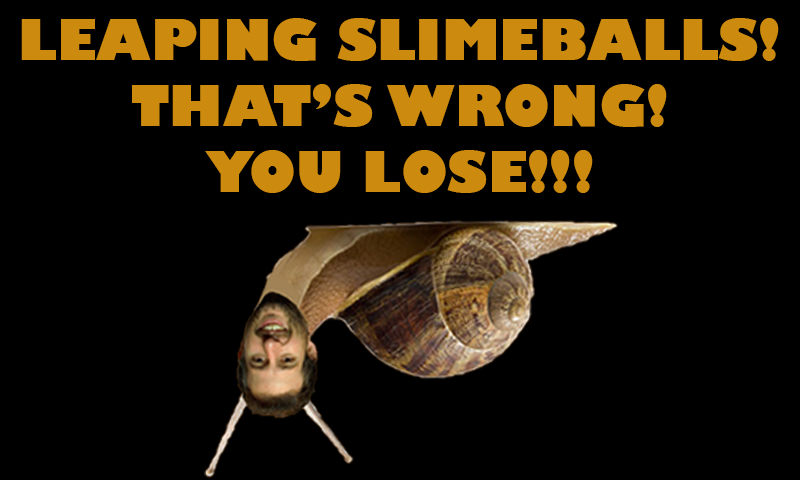
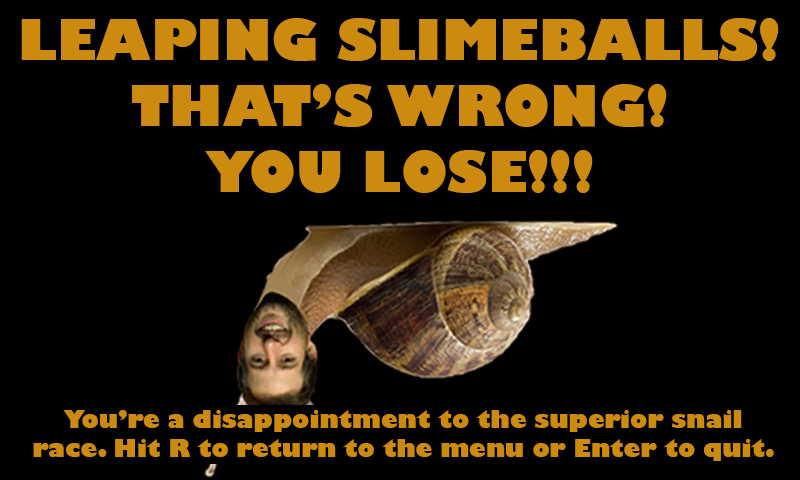
...sweet slimy snails I think we're actually done with this nonsense

Changed region(s): [[0.0312, 0.8438, 0.9688, 0.9688]]

diff --git a/game/Schwartz's Sneaky Snail Mail Scandal/Schwartz's Sneaky Snail Mail Scandal/Game1.cs b/game/Schwartz's Sneaky Snail Mail Scandal/Schwartz's Sneaky Snail Mail Scandal/Game1.cs
@@ -83,15 +83,17 @@ namespace Schwartz_s_Sneaky_Snail_Mail_Scandal
         int mapWidth = 0;
         int mapHeight = 0;
 
-		// Keep track of the room the player is currently in.
-		//Rooms currentRoom = Rooms.Hallway;
-		string currentRoomDirectory = null;
+		//// Keep track of the room the player is currently in.
+		////Rooms currentRoom = Rooms.Hallway;
+		
+		// Variable to store directory location of game map
+		string mapDirectory = null;
 
-		// Regions that, when entered, trigger the loading of the next room.
-		RoomMovement hallwayExit = null;
-		RoomMovement officeExit = null;
+		//// Regions that, when entered, trigger the loading of the next room
+		//RoomMovement hallwayExit = null;
+		//RoomMovement officeExit = null;
 
-		// Variables to keep track of game assets.
+		// Variables to keep track of game assets
 		Texture2D spriteSheet;
 		Texture2D tileSheet;
 		Texture2D startScreen;
@@ -104,25 +106,31 @@ namespace Schwartz_s_Sneaky_Snail_Mail_Scandal
 		Texture2D erikaDialogue;
 		Texture2D erinDialogue;
 		Texture2D luisDialogue;
+		Texture2D erikaSnailshot;
+		Texture2D erinSnailshot;
+		Texture2D luisSnailshot;
 
-		// List to hold Rectangles surrounding all professor tiles.
+		// List to hold Rectangles surrounding all professor tiles
 		List<Rectangle> professorTileRectangles = new List<Rectangle>();
 
-		// Variables to track the current state of the game and player.
+		// Variables to track the current state of the game and player
 		GameStates gameState = GameStates.StartScreen;
 		PlayerActivity playerActivity = PlayerActivity.Idle;
 
 		// Variable for spritefont
-		SpriteFont Arial;
+		SpriteFont arial20;
 
-		// Enum variable to track professor tile player is interacting with.
+		// Enum variable to track professor tile player is interacting with
 		Professors activeProfessor;
 
 		// Bool for checking professor interaction
 		bool professorInteraction = false;
 
-		// Variable to keep track of previous keyboard state.
+		// Variable to keep track of previous keyboard state
 		KeyboardState prevKBState;
+
+		// Variable to keep track of player starting position
+		Vector2 playerLoc = new Vector2(1225, 50);
 
 		// Variables to control the regions of the map that get drawn.
 		//int drawFrom;
@@ -155,10 +163,10 @@ namespace Schwartz_s_Sneaky_Snail_Mail_Scandal
             windowWidth = graphics.GraphicsDevice.Viewport.Width;
             windowHeight = graphics.GraphicsDevice.Viewport.Height;
 
-			hallwayExit = new RoomMovement(
-				0, Map.tileHeight, Map.tileWidth, Map.tileHeight * 20);
-			officeExit = new RoomMovement(
-				windowWidth - Map.tileWidth, Map.tileHeight * 14, Map.tileWidth, Map.tileHeight * 7);
+			//hallwayExit = new RoomMovement(
+			//	0, Map.tileHeight, Map.tileWidth, Map.tileHeight * 20);
+			//officeExit = new RoomMovement(
+			//	windowWidth - Map.tileWidth, Map.tileHeight * 14, Map.tileWidth, Map.tileHeight * 7);
 
 			// Making cursor visible in the window.
 			this.IsMouseVisible = true;
@@ -186,7 +194,7 @@ namespace Schwartz_s_Sneaky_Snail_Mail_Scandal
 						return TileStates.Professor;
 					}
                 default:
-                    throw new System.ArgumentException(letter + " was not a wall or floor. Please check file input.");
+                    throw new ArgumentException(letter + " was not a wall or floor. Please check file input.");
             }
         }
 
@@ -308,7 +316,7 @@ namespace Schwartz_s_Sneaky_Snail_Mail_Scandal
         protected override void LoadContent()
         {
 			// Initialising map using the file generated using the Map Editor
-			currentRoomDirectory = "../../../../Content/gameMap";
+			mapDirectory = "../../../../Content/gameMap";
 
             // Create a new SpriteBatch, which can be used to draw textures.
             spriteBatch = new SpriteBatch(GraphicsDevice);
@@ -333,14 +341,18 @@ namespace Schwartz_s_Sneaky_Snail_Mail_Scandal
 			erinDialogue = Content.Load<Texture2D>("dialogueBoxes/ErinDialogue");
 			luisDialogue = Content.Load<Texture2D>("dialogueBoxes/LuisDialogue");
 
+			// "Snailshots" lol
+			erikaSnailshot = Content.Load<Texture2D>("snailShots/erikaSnailshot");
+			erinSnailshot = Content.Load<Texture2D>("snailShots/erinSnailshot");
+			luisSnailshot = Content.Load<Texture2D>("snailShots/luisSnailshot");
+
 			// Loads font
-			Arial = Content.Load<SpriteFont>("spriteFont");
+			arial20 = Content.Load<SpriteFont>("Arial20");
 	
 
-			PopulateMap(currentRoomDirectory, tileSheet);
+			PopulateMap(mapDirectory, tileSheet);
 
 			// TODO: use this.Content to load your game content here
-			Vector2 playerLoc = new Vector2(50, 50);
 
             player = new Player(spriteSheet, playerLoc, PlayerStates.FaceDown);
         }
@@ -455,6 +467,15 @@ namespace Schwartz_s_Sneaky_Snail_Mail_Scandal
 						{
 							Exit();
 						}
+						// If R is pressed (once), return to the start screen
+						else if (kbState.IsKeyDown(Keys.R) && prevKBState.IsKeyUp(Keys.R))
+						{
+							// Move player into starting position. Useful if 
+							//		game is restarted from win/lose screens.
+							player.X = playerLoc.X;
+							player.Y = playerLoc.Y;
+							gameState = GameStates.StartScreen;
+						}
 						break;
 					}
 				case (GameStates.LoseScreen):
@@ -463,6 +484,15 @@ namespace Schwartz_s_Sneaky_Snail_Mail_Scandal
 						if (kbState.IsKeyDown(Keys.Enter) && prevKBState.IsKeyUp(Keys.Enter))
 						{
 							Exit();
+						}
+						// If R is pressed (once), return to the start screen
+						else if (kbState.IsKeyDown(Keys.R) && prevKBState.IsKeyUp(Keys.R))
+						{
+							// Move player into starting position. Useful if 
+							//		game is restarted from win/lose screens.
+							player.X = playerLoc.X;
+							player.Y = playerLoc.Y;
+							gameState = GameStates.StartScreen;
 						}
 						break;
 					}
@@ -1063,6 +1093,39 @@ namespace Schwartz_s_Sneaky_Snail_Mail_Scandal
 							tile.Draw(spriteBatch);
 						}
 
+						// Labels to distinguish professor tiles from each other
+						spriteBatch.DrawString(
+							arial20, 
+							"Erika", 
+							new Vector2(
+								professorTileRectangles[(int)Professors.Erika].X - 5, 
+								professorTileRectangles[(int)Professors.Erika].Y + 40), 
+							Color.Black);
+
+						spriteBatch.DrawString(
+							arial20,
+							"Erin",
+							new Vector2(
+								professorTileRectangles[(int)Professors.Erin].X - 50,
+								professorTileRectangles[(int)Professors.Erin].Y + 10),
+							Color.Black);
+
+						spriteBatch.DrawString(
+							arial20,
+							"Schwartz",
+							new Vector2(
+								professorTileRectangles[(int)Professors.Schwartz].X - 30,
+								professorTileRectangles[(int)Professors.Schwartz].Y - 20),
+							Color.Black);
+
+						spriteBatch.DrawString(
+							arial20,
+							"Luis",
+							new Vector2(
+								professorTileRectangles[(int)Professors.Luis].X - 3,
+								professorTileRectangles[(int)Professors.Luis].Y - 20),
+							Color.Black);
+
 						player.Draw(spriteBatch);
 
 						break;
@@ -1113,10 +1176,13 @@ namespace Schwartz_s_Sneaky_Snail_Mail_Scandal
 						//			to the screen.
 						switch (activeProfessor)
 						{
-							// Erika's dialogue
+							// Erika's dialogue + snailshot
 							case Professors.Erika:
 								spriteBatch.Draw(erikaDialogue,
-									new Rectangle(0, 0, windowWidth / 3, windowHeight / 7),
+									new Rectangle(windowHeight / 7, 0, windowWidth / 3, windowHeight / 7),
+									Color.White);
+								spriteBatch.Draw(erikaSnailshot,
+									new Rectangle(0, 0, windowHeight / 7, windowHeight / 7),
 									Color.White);
 								break;
 
@@ -1125,19 +1191,25 @@ namespace Schwartz_s_Sneaky_Snail_Mail_Scandal
 								gameState = GameStates.FinalSelectionScreen1;
 								break;
 
-							// Erin's dialogue
+							// Erin's dialogue + snailshot
 							case Professors.Erin:
 								spriteBatch.Draw(
 									erinDialogue,
-									new Rectangle(0, 0, windowWidth / 3, windowHeight / 7),
+									new Rectangle(windowHeight / 7, 0, windowWidth / 3, windowHeight / 7),
+									Color.White);
+								spriteBatch.Draw(erinSnailshot,
+									new Rectangle(0, 0, windowHeight / 7, windowHeight / 7),
 									Color.White);
 								break;
 
-							// Luis's Dialogue
+							// Luis's Dialogue + snailshot
 							case Professors.Luis:
 								spriteBatch.Draw(
 									luisDialogue,
-									new Rectangle(0, 0, windowWidth / 3, windowHeight / 7),
+									new Rectangle(windowHeight / 7, 0, windowWidth / 3, windowHeight / 7),
+									Color.White);
+								spriteBatch.Draw(luisSnailshot,
+									new Rectangle(0, 0, windowHeight / 7, windowHeight / 7),
 									Color.White);
 								break;
 
